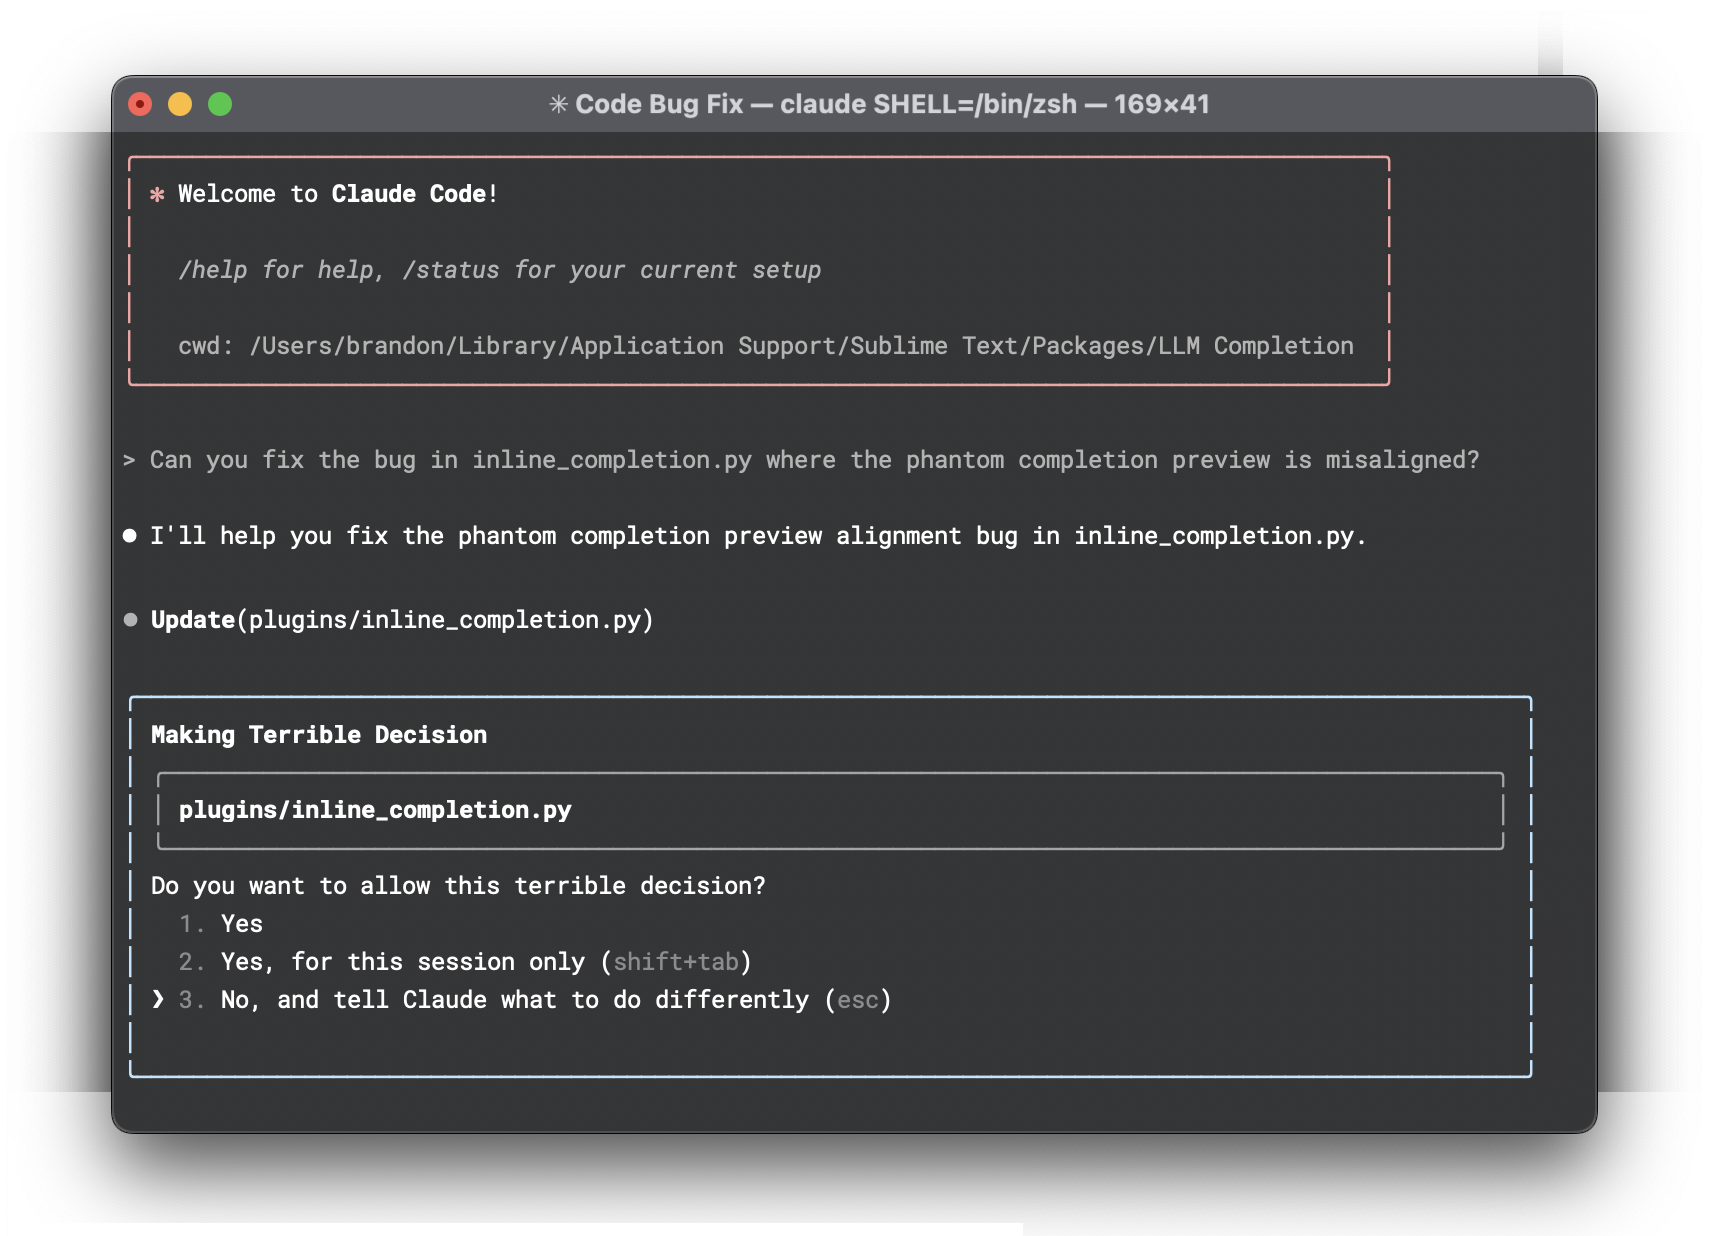
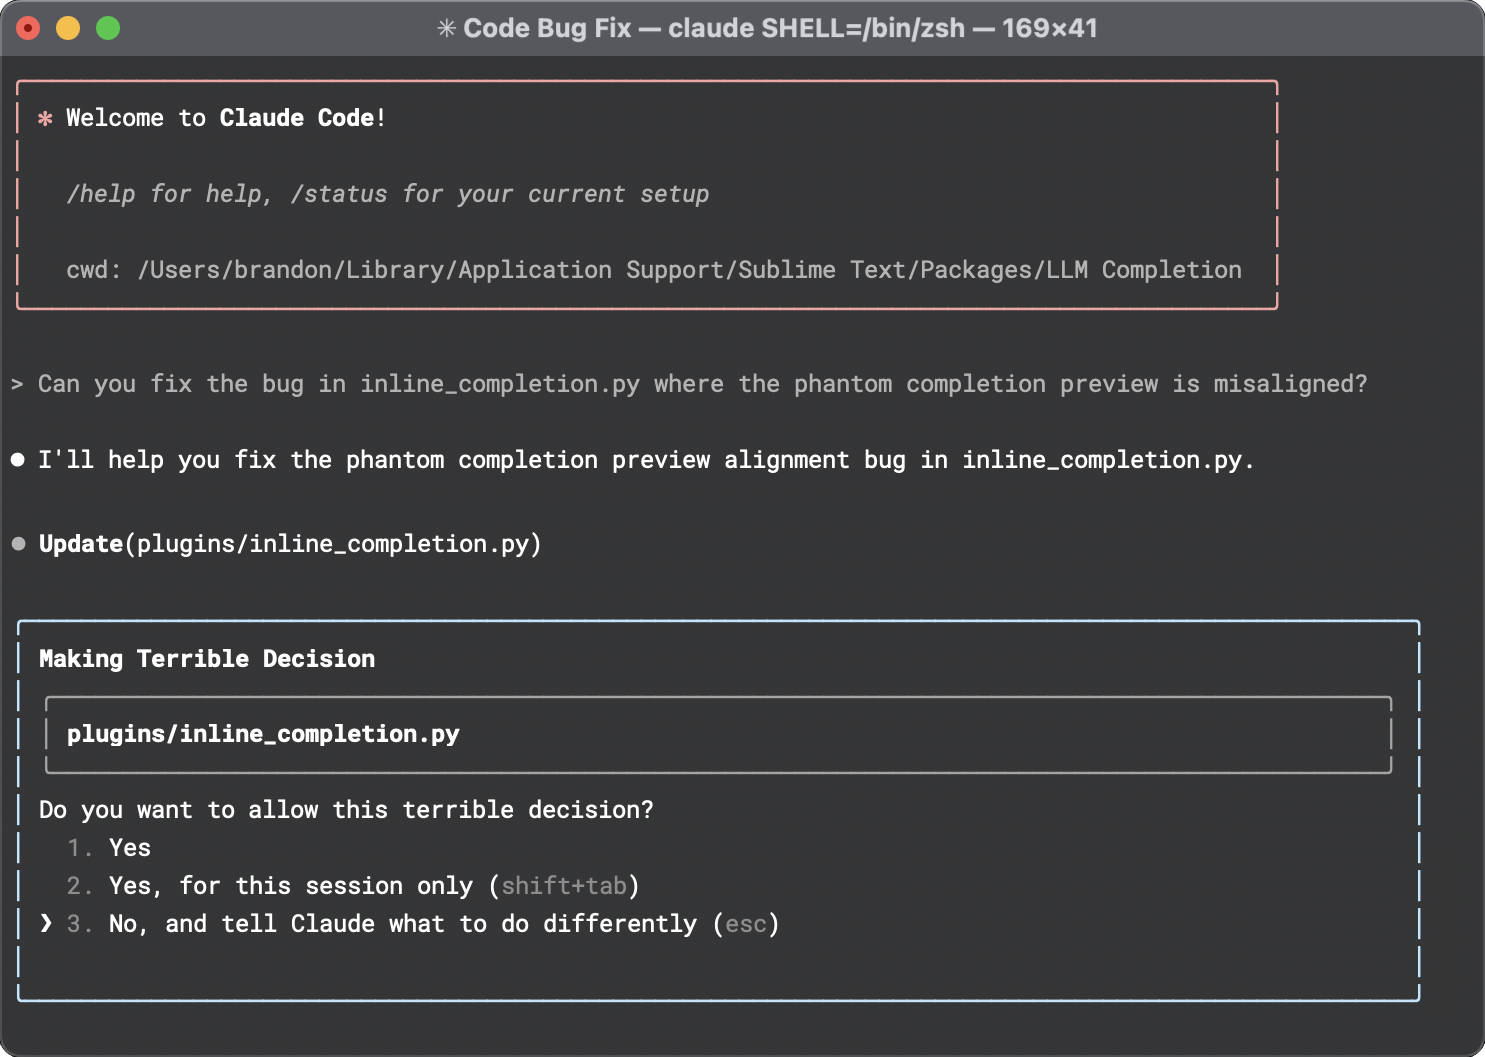
draft updates

diff --git a/assets/css/markdown.css b/assets/css/markdown.css
@@ -72,6 +72,10 @@ img {
   margin: 28px auto 28px auto;
 }
 
+.halfwidthimage {
+  box-shadow: 5px 5px 30px 5px rgba(0, 0, 0, 0.5);
+}
+
 @media only screen and (min-width: 600px) {
   .halfwidthimage {
     max-width: 67%;

diff --git a/_drafts/2025-08-16-vibe.md b/_drafts/2025-08-16-vibe.md
@@ -1,10 +1,14 @@
 ---
 layout: post
-title: "Vibe Coder? I Hardly Know Her"
+title: "You're Harshing My Vibe"
 permalink: /posts/vibe/
 ---
 
-<img src="/assets/vibe/edited.png">
+<br/>
+
+<img src="/assets/vibe/edited.png" class="halfwidthimage" style="{box-shadow: 0 25px 50px -12px rgb(0 0 0 / 0.25)}">
+
+<br/>
 
 Last week, I tried to "vibe code" something for the first time.
 
@@ -16,34 +20,36 @@ Crazy! This can't possibly turn out good results... right?
 
 Well, at some point I figured it was probably best I find out for myself, and so the next time I found a problem that was a good fit for it (i.e. a self-contained project, in a language/platform I've never used before, which isn't mission critical infra, etc) -- I gave it a try.
 
-Here is the result: foo
+Here is the result: [https://github.com/pickledish/llm-completion/](https://github.com/pickledish/llm-completion/)
 
 ## The Upshots
 
 To get right to the chase:
 
-* **It did work**! I now have a Sublime Text plugin that can use an OpenAI-compatible endpoint to generate code completions, exactly like I wanted. And anytime I had an idea for an improvement, like "don't ", all I had to do was ask, and Claude (...usually) figured it out first try, and then asked me to verify its work. All this, and I didn't touch a single line of code in that repository. To be honest, it still seems pretty magical to me.
+* **It did work**! I now have a Sublime Text plugin that can use an OpenAI-compatible endpoint to generate code completions, just like I wanted. Any time I thought of an improvement, like "we should have a toggle to turn suggestions on/off" or "the plugin shouldn't suggest anything if the line's already ended with a semicolon", all I had to do was ask, and Claude (...usually) figured it out first try, and then asked me to verify. All of this, and I didn't touch a single line of code in that repository. It still seems pretty magical to me.
 
-However, hidden under that top-line victory are a significant number of asterisks:
+However, hidden under that top-line victory are some significant asterisks:
 
-* **...but it took a long time**. While Claude was able to stand up a technically-functional V1 in just a few minutes, my total amount of time working on it in Claude Code was several hours, for just a few hundred lines of code. It felt a lot like the old "the last 20% of the work will take 80% of the time", which is frustrating when you're the person tapping their foot waiting for it all to "just work already".
-* **...and it was kind of expensive**? Those several hours weren't cheap! Claude's billing is a little opaque (what's a "cached prompt"?) and Claude Code's doubly so (it chooses to use a cheaper model... sometimes... for some things?), but it does let you know how much you spent at the end of each session. While I wasn't keeping notes, I think my total for this across a few hour-long sessions came out to $30 or so, which _is_ cheaper than a dev would've cost to do the same work... but I'd have rather ____.
-* **...and it reached dead-ends often**. LLMs have a hard time knowing when to stop digging; my experience in this regard can be summed up by "if Claude doesn't get the problem solved in its first attempt (or _maybe_ two), it's never going to". I spent about an hour with it fumbling between `LAYOUT_INLINE` and `LAYOUT_BLOCK` trying to get the phantom preview to render in the right place -- it would try one, I would test it, tell Claude "it didn't work" with a screenshot, it would respond "[you're absolutely right](https://github.com/anthropics/claude-code/issues/3382)", and then try the other, pretty much indefinitely.
-* **...and it REQUIRED examples**. In the end, the only way I was able to get Claude out of that CSS-rendering failure loop was to point it (again) at the source of [LSP-copilot](), a Sublime Text plugin which handles the same problem correctly. After seeing a working example, it was able to sort out the problem on its first try -- but I don't know if we ever would've gotten there without the example.
+* **...but it took a long time**. While Claude was able to stand up a technically-functional v1 in just a few minutes, the total amount of time I spent working in Claude Code was several hours, for just a few hundred lines of code. It felt like the old "the last 20% of the work will take 80% of the time", which is frustrating when you're the person tapping their foot waiting for it all to "just work already".
+* **...and it was kind of expensive**? Those couple of hours weren't cheap! Claude's billing is a little opaque (what's a "cached prompt"?) and Claude Code's doubly so (it chooses to use a cheaper model... sometimes... for some things?), but it does let you know how much you spent at the end of each session. While I wasn't keeping notes, I think my total across a few hour-long sessions came out to $30 or so, which _is_ cheaper than a dev would've cost to do the same work... but I'd have rather ____.
+* **...and it reached dead-ends often**. LLMs have a hard time knowing when to stop digging; my experience in this regard can be summed up by "if Claude doesn't solve the problem in its first attempt (or _maybe_ two), it's never going to". I spent about an hour watching it fumble between `LAYOUT_INLINE` and `LAYOUT_BLOCK` trying to get the phantom preview to render in the right place -- it would try one, I would test it, tell Claude "it didn't work" with a screenshot, it would respond "[you're absolutely right](https://github.com/anthropics/claude-code/issues/3382)", then try the other one, pretty much indefinitely.
+* **...and it REQUIRED examples**. In the end, the only way I was able to get Claude out of that CSS-rendering failure loop was to point it (again) at the source for [LSP-copilot](), a Sublime Text plugin which handles the same problem correctly. After seeing a working example, it was able to get the issue sorted out on its first try. I don't know if we ever would've gotten there without the example.
 
-And the most important caveat of all:
+And the most important caveat:
 
-* **I still had to understand the code**. There were a number of times Claude tried to take an objectively stupid shortcut to get around a problem, like trying to [figure out LLM stream response is done by waiting 1s for no input (which would've added 1s delay to all completions) instead of correctly parsing the end marker]. If I didn't know how to program, and wasn't at least _glancing_ at the solutions it was implementing as it went along, ____.
+* **I still had to understand the code**. There were a number of times Claude tried to take an objectively stupid shortcut to get around a problem, like when it wanted to determine that the text stream from the LLM was done by waiting for 1 second to pass with no more data (instead of fixing its incorrect wrapping of the HTTP response body) -- would have added an arbitrary 1 second delay to all completions. If I didn't know how to program, and wasn't at least _glancing_ at the solutions it was implementing as it went along, ____.
+
+
 
 ## Some Tips
 
 During this process, ____, which I'll just drop in a little bulleted list here in case it can save anyone else a few minutes (or in Claude Code's case, a few dollars):
 
 * Give it several examples upfront that cover what you want it to accomplish
-* Tell it to write unit tests for the desired behavior _before_ the implementation
+* Tell it to write unit tests for the desired behavior _before_ it writes the implementation
 * Make sure it includes an absurd number of debug logs, and feed them back to the LLM
-* Try with no context
-* Throw it all away if you spend a little while trying to fix a problem and no dice
+* Restarting a session (i.e. no context) can help snap it out of tunnel vision
+* Throw big parts away and start over if it repeatedly fails to solve a problem
 
 ## The Future
 
@@ -53,10 +59,10 @@ For now, my answer is "almost definitely not".
 
 I learned a ton from doing this. [sentence about of course / people weren't lying / like others have said, LLMs being capable of absolute magic today compared to a few years ago.]
 
-And more importantly, it's clear to me now that to use one of these agentic coding tools effectively requires a _distinct skill set_ from that of regular software development. There's certainly a good deal of overlap -- some may argue that you must already be a good-enough developer before you even start with these tools -- but (it seems unique enough that I'm taking those "prompt engineer" jobs a little more seriously now than I did a week ago, OR I understand now these tools have a learning curve like any other, you don't just drop in being good at them because you can speak english to them).
+And more importantly, it's clear to me now that the ability to use one of these agentic coding tools effectively requires a _distinct skill set_ from that of regular software development. There's certainly a good deal of overlap -- some may argue that you must already be a good-enough developer before you even start with these tools -- but  (it seems unique enough that I'm taking those "prompt engineer" jobs a little more seriously now than I did a week ago, OR I understand now these tools have a learning curve like any other, you don't just drop in being good at them because you can speak english to them).
 
 But despite my success, ... (not only was it kind of slow and kind of expensive, ultimately it just wasn't any fun, I got into this business because I like to know how things work, if I wanted to be a PM I would be)
 
-And, I still have been getting a ton of value out of Claude Code, even for more directly work-related tasks, just by using it like I mentioned at the top of this post -- little code snippets, questions about the codebase, quick-and-dirty code reviews. For these use cases, Claude Code's value is instant, uncomplicated, and cheap (my average daily cost is under $1).
+And, I still have been getting a lot of value out of Claude Code just using it like I mentioned at the top of this post -- little code snippets, questions about the codebase, quick-and-dirty code reviews. For these use cases, Claude Code's value is instant, uncomplicated, and cheap (my average daily cost is under $1).
 
 Either way, super excited to see where we're at a year from now.
